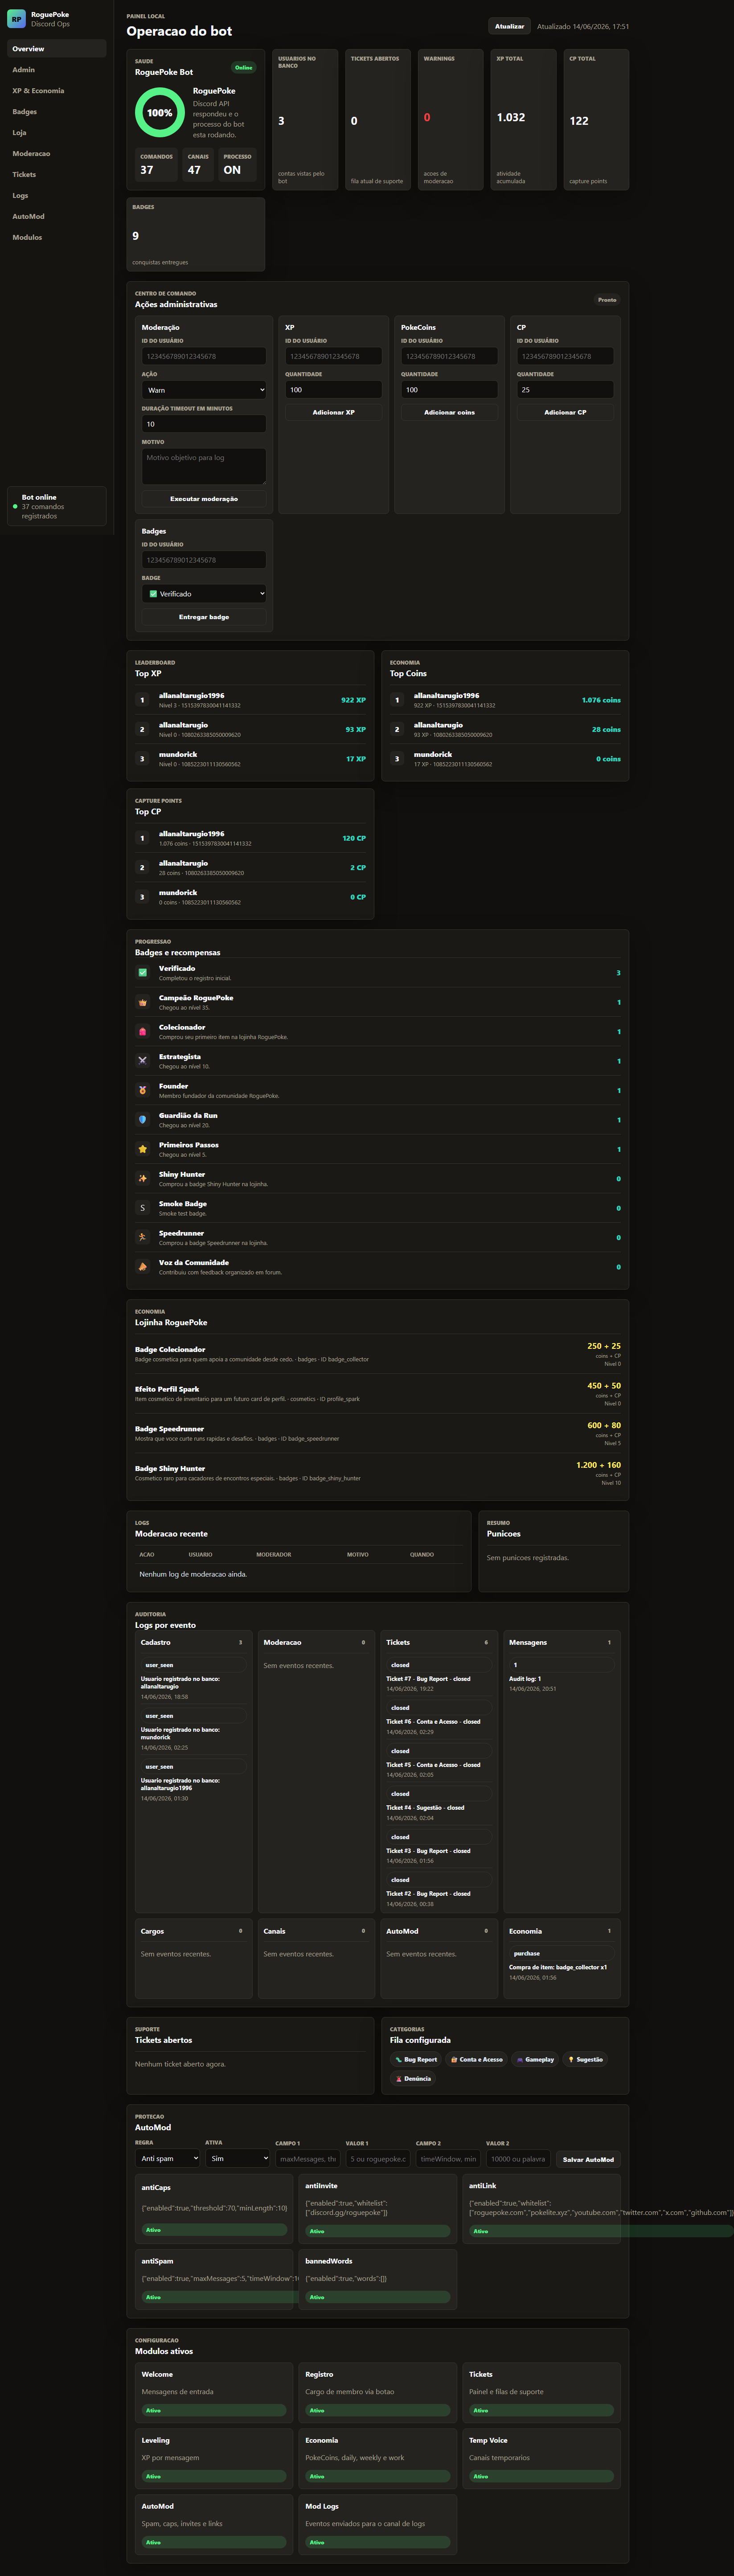
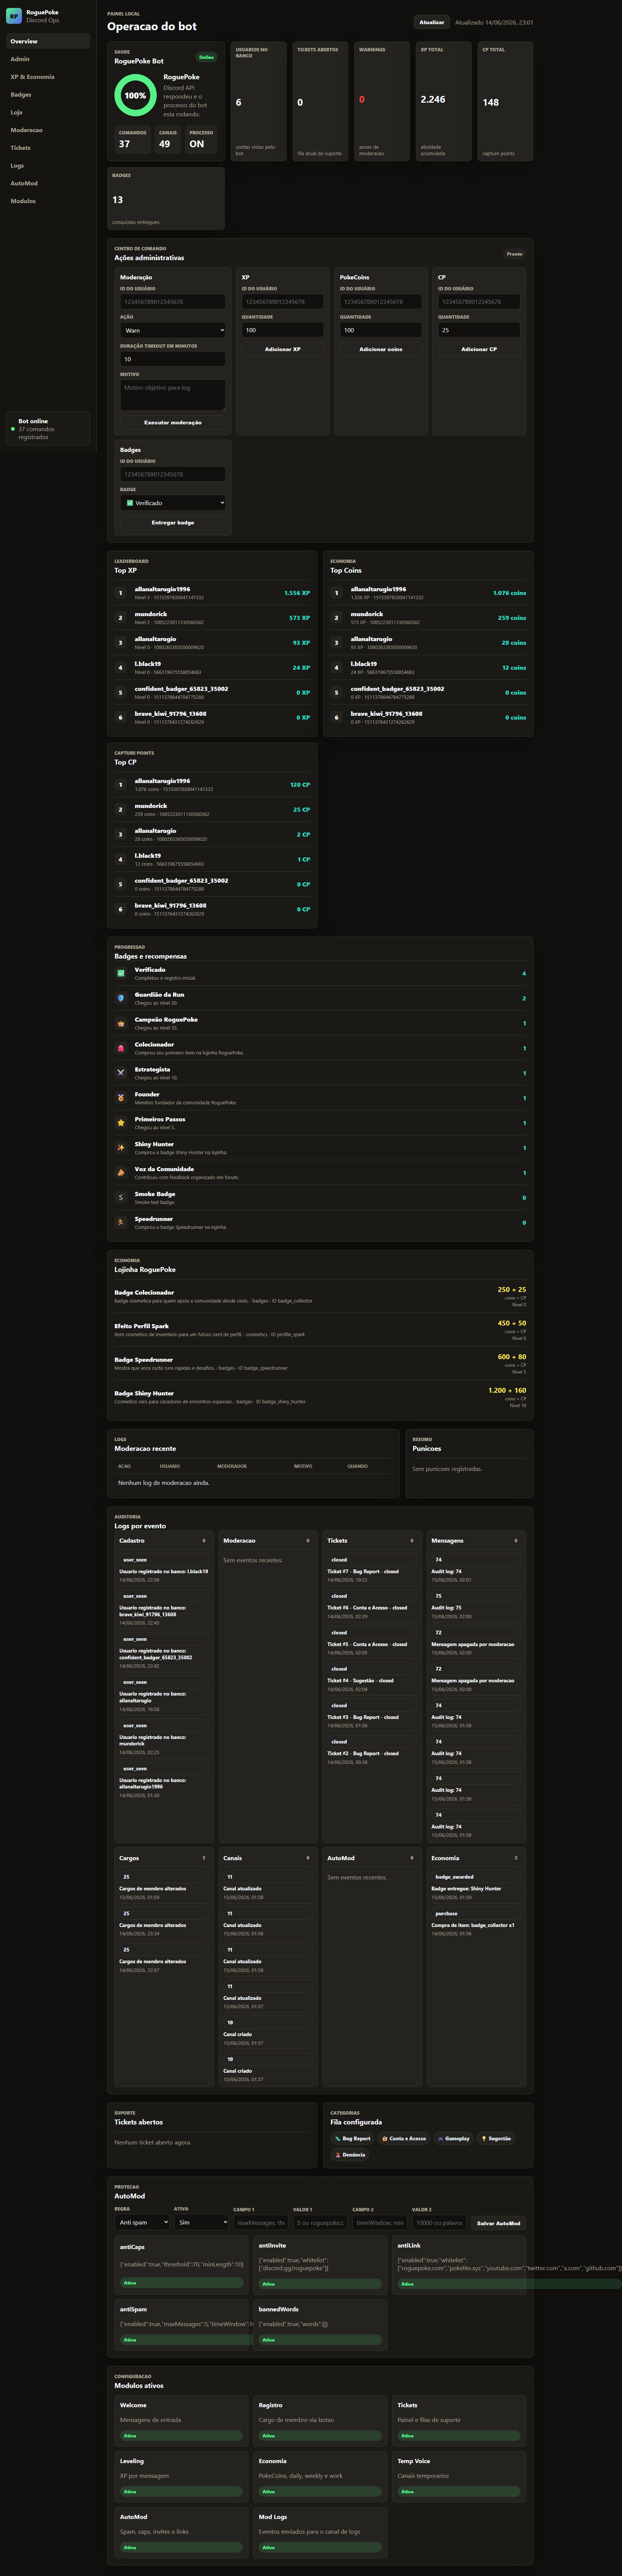
Improve onboarding channels and badge awards

diff --git a/discord-bot/scripts/apply-server-structure.js b/discord-bot/scripts/apply-server-structure.js
@@ -413,6 +413,35 @@ async function clearRecentBotMessages(channel, reason) {
   if (botMessages.size > 0) log(`${reason}: removed ${botMessages.size} old bot message(s) in #${channel.name}`);
 }
 
+async function cleanupLegacyLanguagePanels(guild, targetChannelId, roleIds) {
+  if (!roleIds.length || dryRun) return;
+
+  const placeholders = roleIds.map(() => '?').join(',');
+  const rows = db.db.prepare(`
+    SELECT DISTINCT channel_id, message_id
+    FROM reaction_roles
+    WHERE guild_id = ? AND role_id IN (${placeholders}) AND channel_id != ?
+  `).all(guild.id, ...roleIds, targetChannelId);
+
+  for (const row of rows) {
+    const channel = guild.channels.cache.get(row.channel_id);
+    if (!channel?.messages) continue;
+    const message = await channel.messages.fetch(row.message_id).catch(() => null);
+    if (message?.author?.id === client.user.id) {
+      await message.delete().catch(error => {
+        console.error(`Could not delete legacy language panel in #${channel.name}:`, error.message);
+      });
+    }
+  }
+
+  db.db.prepare(`
+    DELETE FROM reaction_roles
+    WHERE guild_id = ? AND role_id IN (${placeholders}) AND channel_id != ?
+  `).run(guild.id, ...roleIds, targetChannelId);
+
+  if (rows.length) log(`legacy language panels removed: ${rows.length}`);
+}
+
 async function lockExistingArchiveChannels(guild) {
   const archiveChannels = guild.channels.cache.filter(channel => channel.name.startsWith('arquivo-'));
   for (const channel of archiveChannels.values()) {
@@ -486,6 +515,7 @@ async function sendLanguagePanel() {
   const roles = panel.roles
     .map(item => ({ ...item, roleObject: state.roles.get(item.role) }))
     .filter(item => item.roleObject);
+  await cleanupLegacyLanguagePanels(channel.guild, channel.id, roles.map(item => item.roleObject.id));
 
   const embed = new EmbedBuilder()
     .setColor('#5865F2')
@@ -596,7 +626,9 @@ async function ensureInfoMessage(channel, key, embed) {
 }
 
 async function sendInfoMessages(guild) {
+  const startChannel = state.channels.get('start_here');
   const rulesChannel = state.channels.get('rules');
+  const languageChannel = state.channels.get('language_select');
   const faqChannel = state.channels.get('faq');
   const wikiChannel = state.channels.get('wiki');
   const announcementsChannel = state.channels.get('announcements');
@@ -604,7 +636,30 @@ async function sendInfoMessages(guild) {
   const supportChannel = state.channels.get('open_ticket');
   const staffDashboard = state.channels.get('staff_dashboard');
   const shopChannel = state.channels.get('shop');
+  const hallOfFameChannel = state.channels.get('hall_of_fame');
 
+  await ensureInfoMessage(startChannel, 'roguepoke:start:v1', new EmbedBuilder()
+    .setColor('#DCFF00')
+    .setTitle('ROGUEPOKE')
+    .setDescription([
+      '```text',
+      'RRRRR   OOOOO   GGGGG  U   U  EEEEE  PPPPP   OOOOO  K   K  EEEEE',
+      'R   R   O   O   G      U   U  E      P   P   O   O  K  K   E',
+      'RRRRR   O   O   G  GG  U   U  EEEE   PPPPP   O   O  KKK    EEEE',
+      'R  R    O   O   G   G  U   U  E      P       O   O  K  K   E',
+      'R   R   OOOOO   GGGGG  UUUUU  EEEEE  P       OOOOO  K   K  EEEEE',
+      '```',
+      'Bem-vindo(a) ao hub oficial do RoguePoke.',
+      '',
+      '**Primeiros passos:**',
+      '1. Leia #regras.',
+      '2. Libere acesso em #verificacao.',
+      '3. Escolha seus idiomas em #idiomas.',
+      '4. Use #abrir-ticket para suporte privado.',
+      '',
+      'Avisos oficiais ficam em announcements. Idiomas e paises ficam separados para manter anuncios limpos.'
+    ].join('\n'))
+    .setTimestamp());
   await ensureInfoMessage(rulesChannel, 'roguepoke:rules:v2', new EmbedBuilder()
     .setColor('#ED4245')
     .setTitle('📋 Regras Gerais RoguePoke')
@@ -668,6 +723,28 @@ async function sendInfoMessages(guild) {
       '',
       '**Comece por aqui:** leia 📋-regras, registre-se em ✅-verificação e escolha seus idiomas nos botoes abaixo.',
       'Avisos importantes aparecem aqui. Canais oficiais ficam travados para manter informacao limpa.'
+    ].join('\n'))
+    .setTimestamp());
+
+
+  await ensureInfoMessage(languageChannel, 'roguepoke:languages:v1', new EmbedBuilder()
+    .setColor('#5865F2')
+    .setTitle('Idiomas e paises')
+    .setDescription([
+      'Escolha todos os idiomas que voce entende ou quer acompanhar.',
+      '',
+      'Esses cargos servem para identificar voce, liberar os chats certos e aumentar a conversa entre membros de regioes diferentes.',
+      'Voce pode ativar mais de um idioma quando quiser.'
+    ].join('\n'))
+    .setTimestamp());
+
+  await ensureInfoMessage(hallOfFameChannel, 'roguepoke:hof:v1', new EmbedBuilder()
+    .setColor('#F1C40F')
+    .setTitle('Hall of Fame')
+    .setDescription([
+      'Canal para conquistas, runs memoraveis, prints de destaque e feitos da comunidade.',
+      '',
+      'Publique aqui apenas resultados que merecem vitrine. Conversas normais ficam em off-topic ou nos chats de idioma.'
     ].join('\n'))
     .setTimestamp());
 

diff --git a/dashboard/server.js b/dashboard/server.js
@@ -536,7 +536,7 @@ function applyCp(userId, amount) {
   return { userId, amount, cp: user.cp };
 }
 
-function awardBadge(userId, badgeKey) {
+async function awardBadge(userId, badgeKey) {
   const guildId = process.env.GUILD_ID;
   const badge = getOne('SELECT key, name FROM badges WHERE key = ?', badgeKey);
   if (!badge) {
@@ -545,8 +545,69 @@ function awardBadge(userId, badgeKey) {
     throw error;
   }
   createUserIfNeeded(userId);
-  db.prepare('INSERT OR IGNORE INTO user_badges (guild_id, user_id, badge_key) VALUES (?, ?, ?)').run(guildId, userId, badgeKey);
-  return { userId, badge };
+  const result = db.prepare('INSERT OR IGNORE INTO user_badges (guild_id, user_id, badge_key) VALUES (?, ?, ?)').run(guildId, userId, badgeKey);
+
+  const roleIds = getBadgeRoleIds(guildId, badgeKey);
+  const assignedRoles = [];
+  const missingRoles = [];
+
+  if (roleIds.length) {
+    const rest = getRestClient();
+    for (const roleId of roleIds) {
+      try {
+        await rest.put(Routes.guildMemberRole(guildId, userId, roleId), {
+          reason: `Badge ${badge.name} entregue pelo dashboard`
+        });
+        assignedRoles.push(roleId);
+      } catch (error) {
+        missingRoles.push({ roleId, error: sanitizeError(error.message) });
+      }
+    }
+  }
+
+  addEventLog({
+    guildId,
+    category: 'economia',
+    eventType: 'badge_awarded',
+    actorId: 'dashboard',
+    targetId: userId,
+    summary: `Badge entregue: ${badge.name}`,
+    details: { badgeKey, inserted: result.changes > 0, assignedRoles, missingRoles }
+  });
+
+  return {
+    userId,
+    badge,
+    inserted: result.changes > 0,
+    assignedRoles,
+    missingRoles,
+    message: assignedRoles.length
+      ? `Badge ${badge.name} entregue e ${assignedRoles.length} cargo(s) aplicados.`
+      : `Badge ${badge.name} entregue no perfil.`
+  };
+}
+
+function getBadgeRoleIds(guildId, badgeKey) {
+  const roleIds = new Set();
+
+  if (tableExists('shop_items')) {
+    const shopItems = getAll("SELECT payload FROM shop_items WHERE guild_id = ? AND type = 'badge'", guildId);
+    for (const item of shopItems) {
+      const payload = safeJSON(item.payload, {});
+      if (payload?.badge?.key === badgeKey && payload.roleId) {
+        roleIds.add(payload.roleId);
+      }
+    }
+  }
+
+  if (tableExists('level_rewards')) {
+    const rewards = getAll('SELECT role_id FROM level_rewards WHERE guild_id = ? AND badge_key = ?', guildId, badgeKey);
+    for (const reward of rewards) {
+      if (reward.role_id) roleIds.add(reward.role_id);
+    }
+  }
+
+  return [...roleIds];
 }
 
 function asyncRoute(handler) {

diff --git a/docs/LORITTA_FEATURE_GAP_PLAN.md b/docs/LORITTA_FEATURE_GAP_PLAN.md
@@ -1,0 +1,84 @@
+# Loritta-Inspired Feature Gap Plan
+
+This project should stay original, but Loritta is a useful benchmark for an all-in-one community bot: modular, multilingual, customizable, entertainment-focused and strong on moderation.
+
+References reviewed:
+
+- https://loritta.website/us/
+- https://github.com/LorittaBot/Loritta
+- https://top.gg/bot/297153970613387264
+
+## What We Already Cover
+
+- Server automation from a JSON blueprint.
+- Verification, language roles and welcome flow.
+- Moderation commands with case IDs.
+- Tickets with modal intake, status, notes and transcripts.
+- XP, levels, coins, CP, badges and collectible creatures.
+- Dashboard for health, economy, moderation, tickets and AutoMod.
+- Feedback forums with templates and status buttons.
+
+## Priority 1 - Dashboard Parity
+
+- Discord OAuth2 login with guild permission checks.
+- Per-module settings pages instead of one long overview.
+- Audit trail for every dashboard action.
+- Case browser with filters, status, reason editing and exports.
+- Ticket browser with status, priority, owner, transcript preview and SLA.
+- AutoMod builder with punishment ladder and whitelist editor.
+
+## Priority 2 - Community Engagement
+
+- Custom profile cards with background, badges, title and favorite creature.
+- Daily streaks and weekly streaks.
+- Server ranking cards and seasonal leaderboards.
+- Giveaways with requirements: role, level, messages, voice time and account age.
+- Polls and suggestions with approval workflow.
+- Starboard/highlight system for community content.
+
+## Priority 3 - Economy And Game Loop
+
+- Shop inventory categories: badges, profile cosmetics, boosts, creatures and rare items.
+- Limited-time shop rotations.
+- Item usage commands, not only purchase.
+- Trading or marketplace between members.
+- Creature evolution, rarity collection log and seasonal captures.
+- Anti-farming rules for XP/coins/CP.
+
+## Priority 4 - Moderation Depth
+
+- Configurable punishment ladder per rule type.
+- Appeals workflow for bans/timeouts.
+- Trust score per user using account age, joins, warnings and AutoMod hits.
+- Raid mode with join-rate detection.
+- Mod note timeline per user.
+- Scheduled moderation reports.
+
+## Priority 5 - Customization
+
+- Custom commands and auto-responses.
+- Timed/repeating messages.
+- Per-channel XP multipliers.
+- Per-language announcement mirrors.
+- Config import/export from dashboard.
+- Theme settings for embeds and dashboard branding.
+
+## Implementation Order
+
+1. OAuth2 dashboard auth and module settings.
+2. Case/ticket dashboard drill-down pages.
+3. Profile card cosmetics and shop item usage.
+4. Giveaways, polls and starboard.
+5. Punishment ladder, appeals and raid mode.
+6. Marketplace/trading and creature evolution.
+
+## Product Rule
+
+Every new module should have:
+
+- slash commands;
+- dashboard configuration;
+- database persistence;
+- audit log entries;
+- smoke or integration tests;
+- README/operations documentation.

diff --git a/README.md b/README.md
@@ -300,6 +300,8 @@ See [SECURITY.md](SECURITY.md).
 
 See [docs/GITHUB_PORTFOLIO.md](docs/GITHUB_PORTFOLIO.md) for repository topics, publish checklist and suggested GitHub copy.
 
+Loritta-inspired product roadmap: [docs/LORITTA_FEATURE_GAP_PLAN.md](docs/LORITTA_FEATURE_GAP_PLAN.md).
+
 ## Contributing
 
 See [CONTRIBUTING.md](CONTRIBUTING.md).

diff --git a/docs/QA_REPORT.md b/docs/QA_REPORT.md
@@ -20,7 +20,7 @@ npm --prefix discord-bot run test:system
 - Smoke tests: passing.
 - System check: passing.
 - Discord commands registered: 37.
-- Discord channels detected: 47.
+- Discord channels detected: 49.
 - User-facing roles detected after cleanup: 19.
 - Managed bot role detected: 1.
 - Shop items seeded: 4.